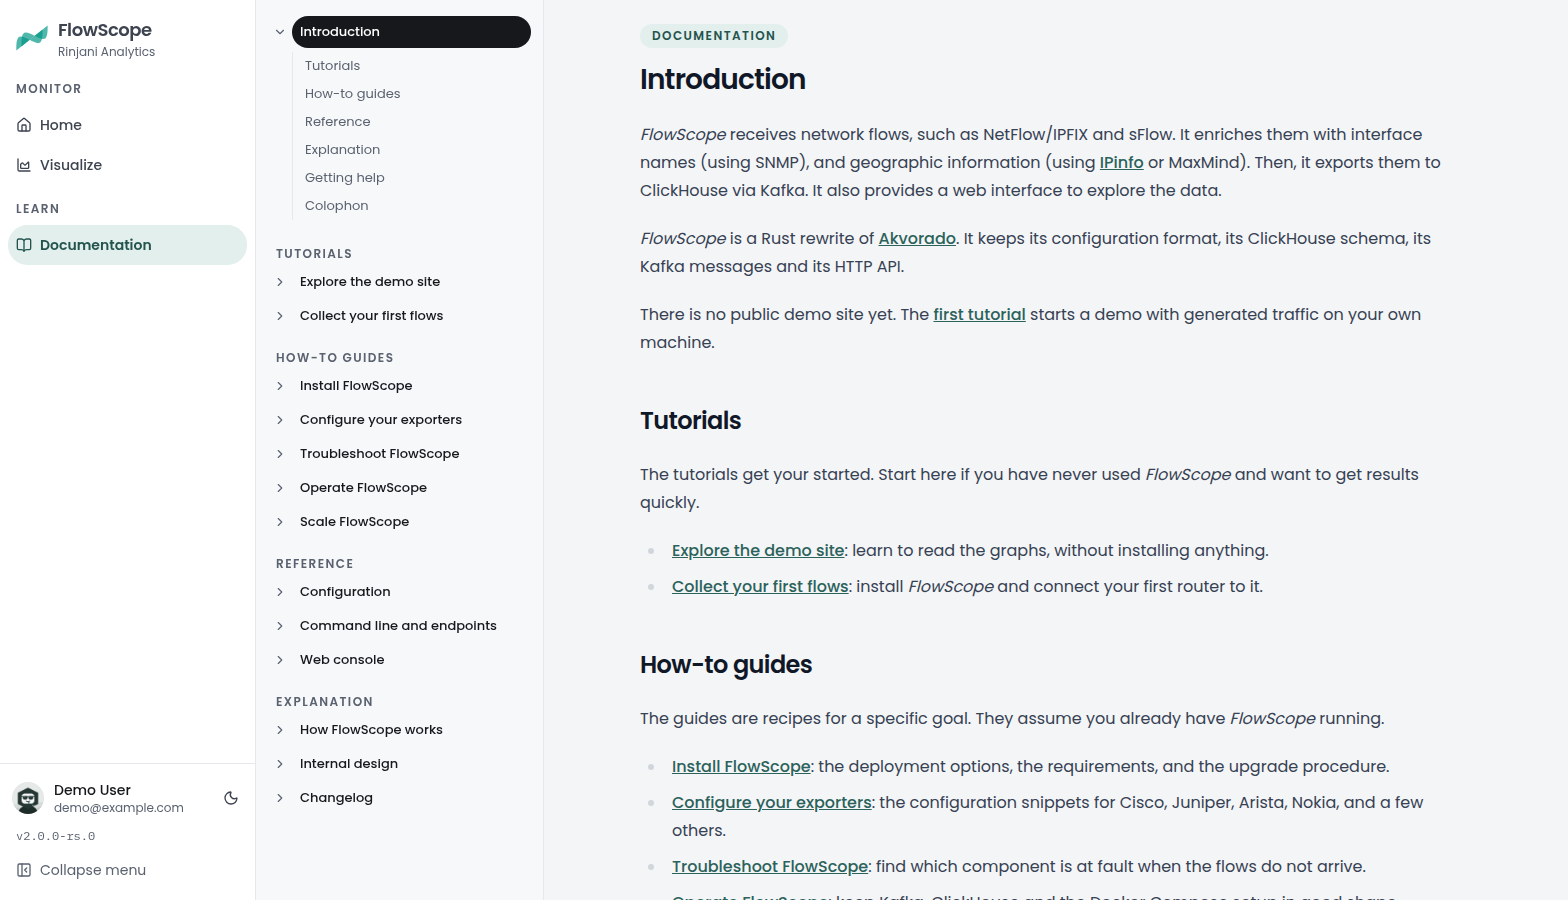
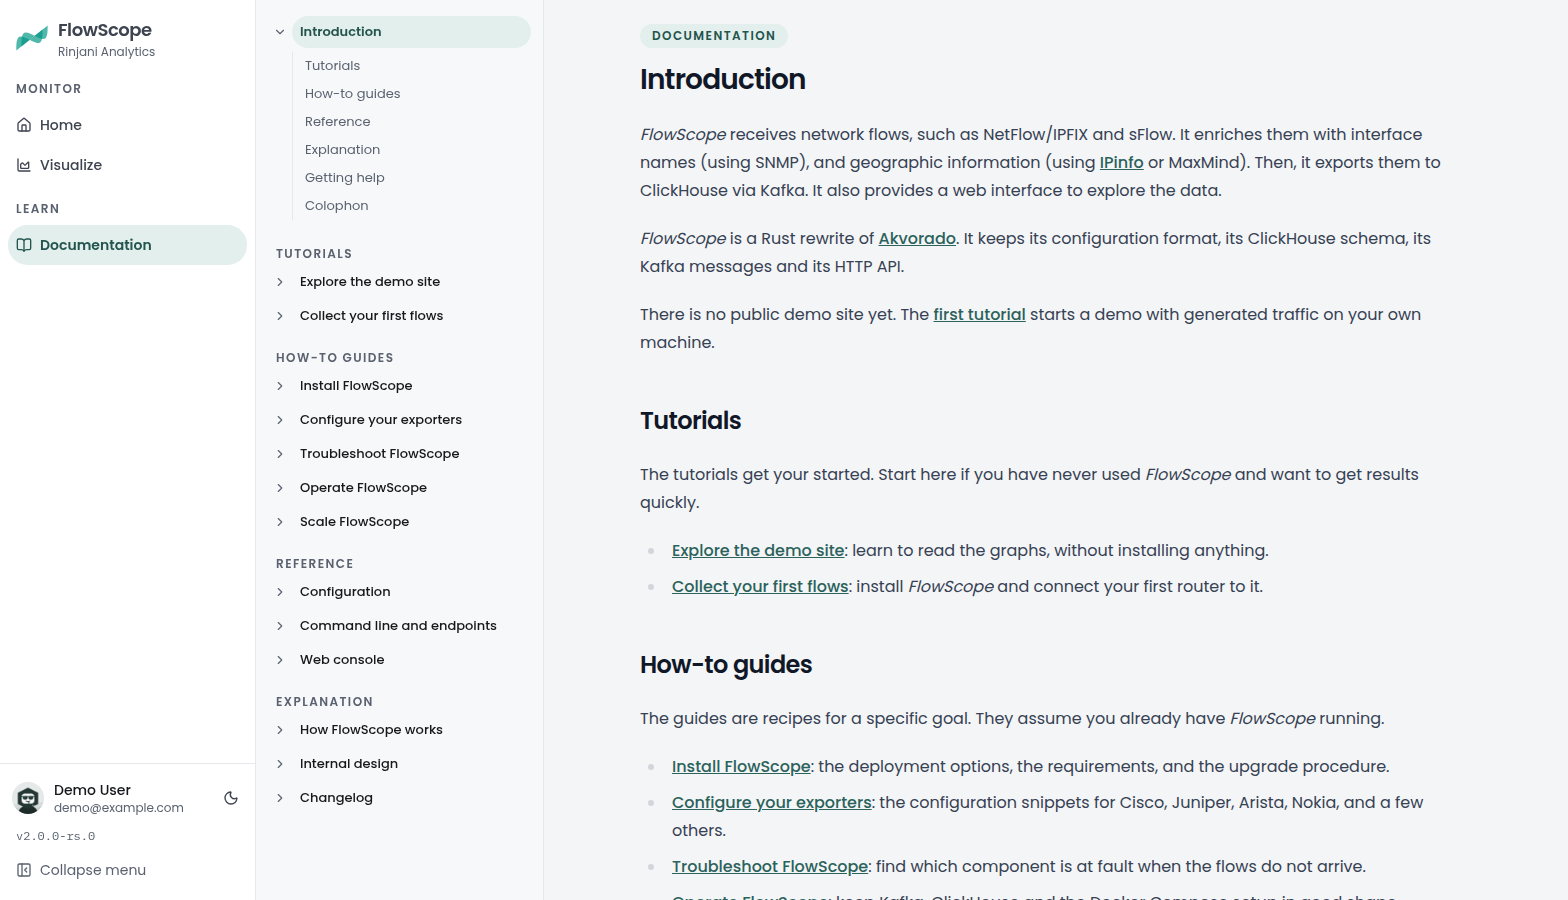
console: use the tint of the brand for the current document (#5)
In the table of contents of the documentation, the current document
was a solid black or white block. The menu next to it marks the
current page with the tint of the brand. Both now look the same.

The link of the current document also says so to screen readers.

The screenshot of the documentation is taken again. It comes from the
development server with the data of the demo setup.

Changed region(s): [[0.1875, 0.0, 0.3438, 0.0622]]

diff --git a/web/src/app/docs/page.tsx b/web/src/app/docs/page.tsx
@@ -210,10 +210,13 @@ export default function DocumentationPage() {
                         event.preventDefault();
                         navigate(document.name, `#${first.id}`);
                       }}
+                      aria-current={current ? "page" : undefined}
                       className={cn(
                         "block truncate rounded-xl px-2 py-1.5 font-medium outline-none transition-colors focus-visible:ring-2 focus-visible:ring-ring/50",
+                        // The tint of the brand, like the current page in
+                        // the menu.
                         current
-                          ? "bg-sidebar-primary text-sidebar-primary-foreground"
+                          ? "bg-accent font-semibold text-accent-foreground"
                           : "text-foreground hover:bg-sidebar-accent",
                       )}
                     >
